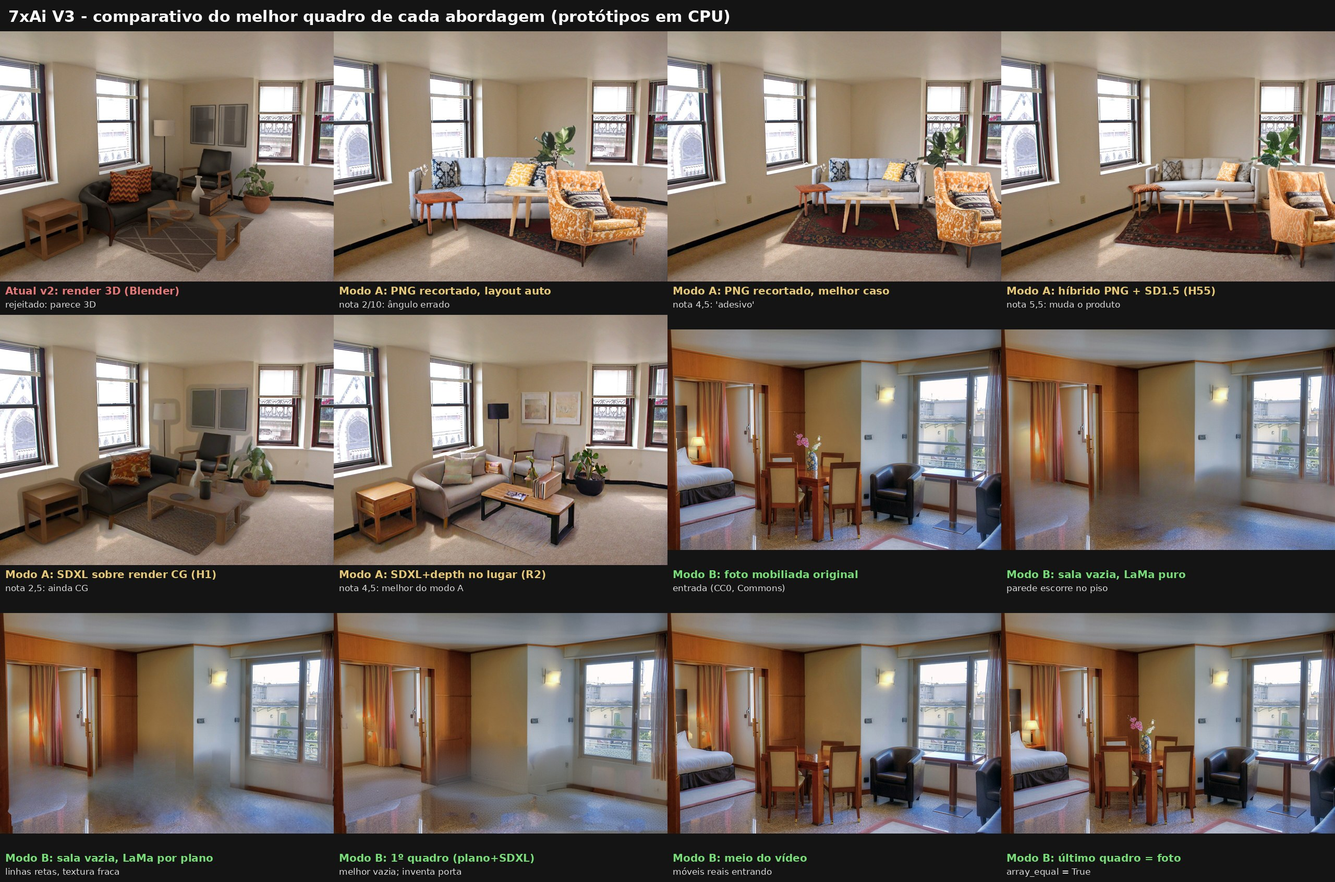
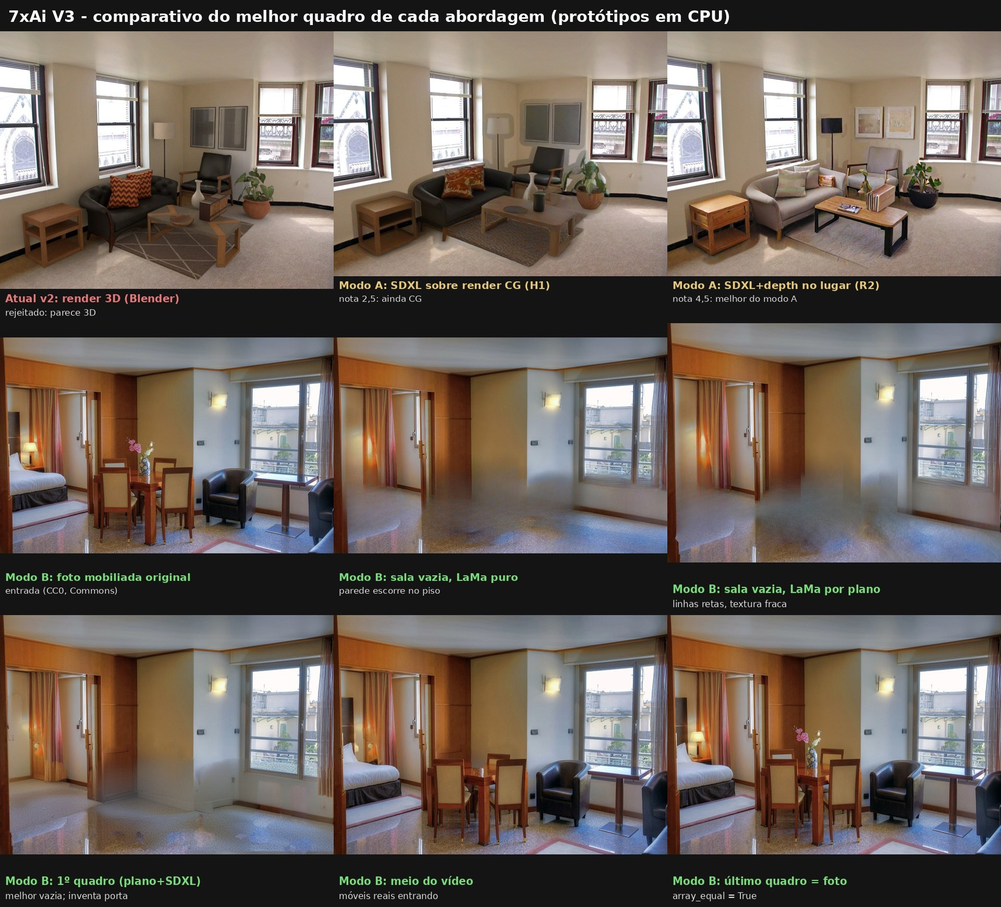
PLANO_V3: remove o caminho de PNG recortado
O PNG foi reprovado no teste e não entra no 7xAi. Sai do plano e do comparativo.

Claude-Session: https://claude.ai/code/session_01Y3v6GDXwMNUdDL8NKpX5hP

diff --git a/docs/PLANO_V3.md b/docs/PLANO_V3.md
@@ -1,6 +1,6 @@
 # 7xAi V3: plano de implementação
 
-Data: 16/11/2026. Este plano junta 3 pesquisas (`r_staging`, `r_removal`, `r_catalog`), 3 protótipos em CPU (`p_staging`, `p_removal`, `p_cutout`) e 2 críticas (`critic_realism`, `critic_feasibility`), todos na pasta `scratchpad/v3/`. Nada no repositório foi alterado.
+Data: 16/11/2026. Este plano junta 2 pesquisas (`r_staging`, `r_removal`), 2 protótipos em CPU (`p_staging`, `p_removal`) e 2 críticas (`critic_realism`, `critic_feasibility`), todos na pasta `scratchpad/v3/`. Nada no repositório foi alterado.
 
 Comparativo visual do melhor quadro de cada abordagem: `scratchpad/v3/comparativo.jpg`.
 
@@ -15,7 +15,7 @@ Comparativo visual do melhor quadro de cada abordagem: `scratchpad/v3/comparativ
 1. **O motor principal da V3 deixa de ser o render 3D e passa a ser composição 2D com camadas feitas de pixels de foto real.** Um único motor de camadas atende os dois modos:
    - **Modo B, "foto mobiliada"** (o pedido atual do usuário, implementado **primeiro**): o software tira os móveis por trás. O vídeo começa na sala vazia, os móveis **da própria foto** voltam um a um com animação, e o vídeo termina **exatamente** na foto original.
    - **Modo A, "sala vazia → mobiliada"** (depois): um modelo de difusão com licença comercial (SDXL/RealVisXL + ControlNet de profundidade) **pinta** os móveis dentro da foto, guiado pelo layout automático atual. O mesmo motor de camadas do modo B separa e anima essas peças. A foto vazia real do cliente serve de fundo, então nesse modo não há inpainting de sala vazia.
-2. **A ideia de "PNG de móveis reais tirados da internet" fica descartada como motor.** O catálogo só serve como referência de estilo (fotos CC0 ou do próprio usuário), nunca colado na imagem.
+2. **PNG de móveis recortados não entra no 7xAi** (testado e reprovado: cara de adesivo, ângulo errado e licenças que não permitem uso comercial).
 3. **O motor v2 (Blender Cycles + Poly Haven CC0) fica como fallback determinístico** e como fonte do passe de profundidade (Z) do modo A. Não é apagado.
 
 ### 1.2 Evidências
@@ -23,10 +23,6 @@ Comparativo visual do melhor quadro de cada abordagem: `scratchpad/v3/comparativ
 | Abordagem | Nota do crítico (1–10) | Evidência | Por que sim ou não |
 |---|---|---|---|
 | v2 atual, render 3D | rejeitado pelo usuário | `comparativo.jpg`, painel 1 | "Parece 3D." |
-| PNG recortado, layout automático (p_cutout A) | **2** | `p_cutout/out/comp_A/composite_1440.jpg` | Erro de azimute de 50–85° entre a foto da peça e a parede. |
-| PNG recortado, melhor caso (p_cutout B) | **4,5** | `p_cutout/zoom_100pct.jpg` | "Adesivo": luz de cada peça diferente, halos, lixo da foto de origem (cesto, caneca, livro), elevação de câmera errada. A simulação de homografia (`r_catalog/sim/viewpoint_error.py`) mostra que um recorte só aguenta ±3–4° de ângulo. Seriam 180–360 fotos por peça. |
-| Híbrido PNG + SD1.5 (H55) | **5,5** | `p_cutout/out/comp_H55/composite_1440.jpg` | Mais fotográfico, mas muda o produto (SSIM 0,27–0,60) e continua preso à baixa resolução e à elevação das fontes. |
-| Licença do catálogo PNG | — | `r_catalog/RELATORIO.md` | Unsplash, Pexels e Pixabay proíbem embutir as fotos como biblioteca [M]. 3D-FUTURE, ABO e IKEA são não comerciais. O CC0 moderno praticamente não existe: no Commons só há fotos históricas, e os resultados CC0 do Openverse são ilustrações ou peças de museu. |
 | SDXL sobre o render CG (H1) | **2,5** | `p_staging/final_H1_full.jpg` | Mantém o visual CG. |
 | SDXL + depth no lugar (R2) | **4,5** | `p_staging/final_R2_full.jpg`, `critic_realism/r2_grid.jpg` | É o caminho certo para o modo A: escala e perspectiva corretas e aparência de foto em miniatura. Ainda tem móveis moles (upscale de 1,875×), objetos derretidos e, na animação, partes ocultas expostas (luminária sem base, poltrona sem metade). Só 1 de 13 gerações saiu boa. |
 | **Modo B: esvaziar e devolver (p_removal)** | **5** (o protótipo se deu 6) | `p_removal/out/antes_vazio_depois.jpg`, `p_removal/out/cmp_all.jpg`, `p_removal/out/video_final/video.mp4` | **Os móveis ficam 9/10**, porque são pixels reais. O último quadro é `array_equal` à foto (verificado também pelo crítico, após decodificar o MKV sem perdas). O ponto fraco é o 1º quadro, a sala vazia, que tem nota 3. |
@@ -383,6 +379,6 @@ Cada pacote tem testes de aceite. Os que precisam de GPU estão marcados **[GPU]
 - Comparativo: `scratchpad/v3/comparativo.jpg`.
 - Modo B: `p_removal/out/antes_vazio_depois.jpg`, `p_removal/out/cmp_all.jpg`, `p_removal/out/video_final/video.mp4`, `p_removal/out/video_final/video_log.json`.
 - Crítica: `critic_realism/rem_grid.jpg`, `critic_realism/rem_residuo.png`, `critic_realism/r2_grid.jpg`.
-- Modo A: `p_staging/final_R2_full.jpg`, `p_staging/video_staging_R2.mp4`, `p_cutout/folha_comparacao.jpg`.
-- Licenças: `critic_feasibility/RELATORIO.md` §1, `r_staging/RELATORIO.md`, `r_removal/RELATORIO.md`, `r_catalog/RELATORIO.md`.
+- Modo A: `p_staging/final_R2_full.jpg`, `p_staging/video_staging_R2.mp4`.
+- Licenças: `critic_feasibility/RELATORIO.md` §1, `r_staging/RELATORIO.md`, `r_removal/RELATORIO.md`.
 - Hashes dos pesos: `p_staging/models_sha256.txt`, `r_removal/RELATORIO.md` (big-lama).
